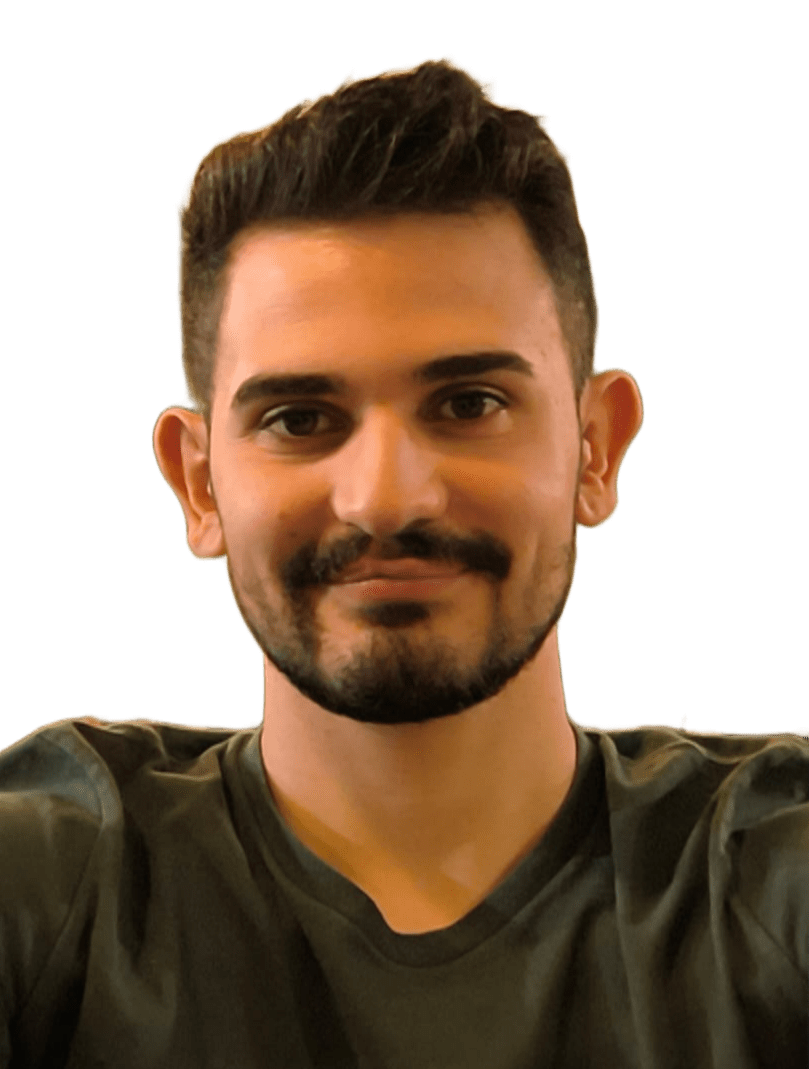
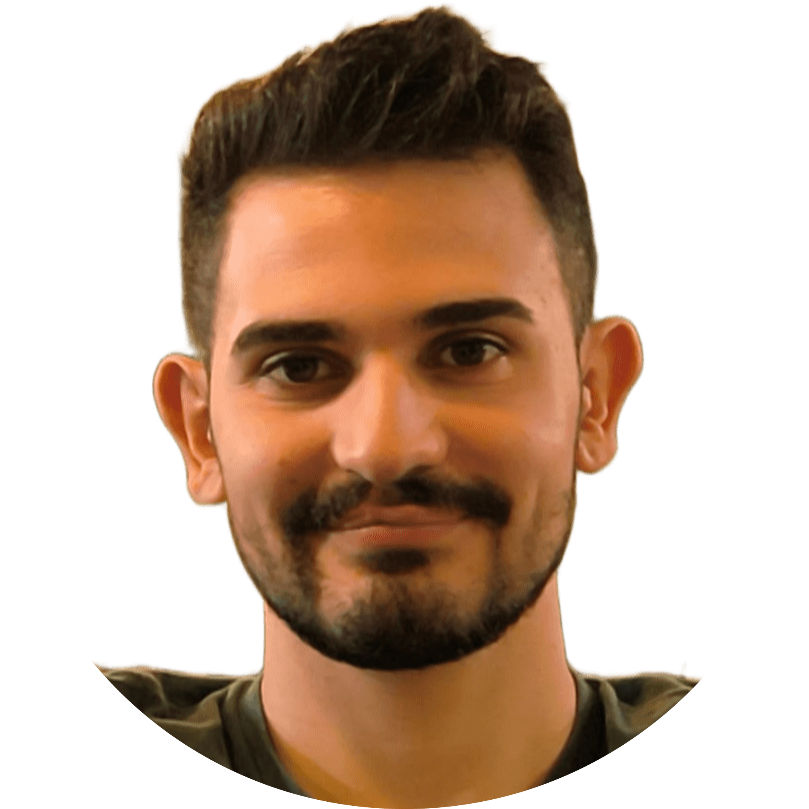
ajustando errores

diff --git a/version-2/app/page.tsx b/version-2/app/page.tsx
@@ -1,46 +1,18 @@
 "use client"
-import React, { useEffect, useState } from "react"
+
 import HeaderInicio from "./componentes/paginas/inicio/Header/HeaderInicio"
+import BodyInicio from "./componentes/paginas/inicio/body/bodyinicio"
+import NavegacionInicio from "./componentes/paginas/inicio/navegacion/navegacioninicio"
 import "./componentes/paginas/inicio/styles/grid.css"
 import "./componentes/paginas/inicio/styles/inicio.css"
 export default function PageInicio() {
-  const [isCompact, setIsCompact] = useState(false)
-  useEffect(() => {
-    const check = () => setIsCompact(window.innerWidth <= 1250 && window.innerHeight <= 800)
-    check()
-    window.addEventListener("resize", check)
-    return () => window.removeEventListener("resize", check)
-  }, [])
   return (
     <main className="parent">
       <div className="header">
         <HeaderInicio />
       </div>
-      <div className="nav-left box">Navegación izquierda</div>
-      {!isCompact && (
-        <div className="recomendaciones box">
-          <div className="div1">título</div>
-          <div className="div2">testimonio</div>
-          <div className="div3">reseña</div>
-        </div>
-      )}
-      <div className="personal box">
-        <div className="div1">Foto</div>
-        <div className="div2">Nombre</div>
-        <div className="div3">Palabras animadas</div>
-        <div className="div4">Ver trabajos</div>
-        <div className="div5">Contactarme</div>
-      </div>
-      {!isCompact && (
-        <div className="destacado box">
-          <div className="proyectoDestacado">
-            <div className="div1">título</div>
-            <div className="div2">tarjeta</div>
-            <div className="div3">reservado</div>
-          </div>
-        </div>
-      )}
-      <div className="nav-right box">Navegación derecha</div>
+      <NavegacionInicio />
+      <BodyInicio />
     </main>
   )
 }

diff --git a/version-2/app/componentes/botones/temas/ThemeToggle.tsx b/version-2/app/componentes/botones/temas/ThemeToggle.tsx
@@ -8,17 +8,14 @@ import styles from "../../paginas/inicio/Header/HeaderInicio.module.css"
 
 export default function ThemeToggle() {
   const [theme, setTheme] = useState<"light" | "dark" | "system">("system")
-  const [mounted, setMounted] = useState(false)
+  const [mountedTheme, setMountedTheme] = useState<"light" | "dark" | "system">("system")
 
   useEffect(() => {
-    setMounted(true)
     const savedTheme = (typeof window !== "undefined" ? localStorage.getItem("theme") : null) as "light" | "dark" | "system" | null
-    if (savedTheme) {
-      setTheme(savedTheme)
-      applyTheme(savedTheme)
-    } else {
-      applyTheme("system")
-    }
+    const initial = savedTheme || "system"
+    setTheme(initial)
+    setMountedTheme(initial)
+    applyTheme(initial)
   }, [])
 
   const applyTheme = (newTheme: "light" | "dark" | "system") => {
@@ -51,11 +48,9 @@ export default function ThemeToggle() {
     try { window.dispatchEvent(new Event("themeToggleTransition")) } catch {}
   }
 
-  if (!mounted) return null
-
   return (
     <button onClick={toggleTheme} className={styles.headerButton} aria-label="Cambiar tema">
-      {theme === "dark" ? (
+      {mountedTheme === "dark" || (typeof document !== "undefined" && document.documentElement.classList.contains("dark")) ? (
         <svg viewBox="0 0 24 24" fill="none" xmlns="http://www.w3.org/2000/svg"><path d="M6.76 4.84l-1.8-1.79L3.17 4.84l1.79 1.8 1.8-1.8zM1 13h3v-2H1v2zm10-9h-2v3h2V4zm7.03 1.05l-1.8-1.8-1.79 1.8 1.79 1.79 1.8-1.79zM20 11v2h3v-2h-3zm-9 9h2v-3h-2v3zm-7.03-1.05l1.8 1.79 1.79-1.79-1.79-1.8-1.8 1.8zM17.24 19.16l1.8 1.79 1.79-1.79-1.79-1.8-1.8 1.8zM12 7a5 5 0 100 10 5 5 0 000-10z" fill="currentColor"/></svg>
       ) : (
         <svg viewBox="0 0 24 24" fill="none" xmlns="http://www.w3.org/2000/svg"><path d="M12 2a9.99 9.99 0 018.66 13.99A9.99 9.99 0 1112 2z" fill="currentColor"/></svg>

diff --git a/version-2/app/componentes/paginas/inicio/styles/inicio.css b/version-2/app/componentes/paginas/inicio/styles/inicio.css
@@ -11,7 +11,15 @@
 .div3 { grid-area: 3 / 1 / 4 / 2; }
 .div4 { grid-area: 4 / 1 / 5 / 2; }
 .div5 { grid-area: 5 / 1 / 6 / 2; }
-.personal .div1, .personal .div2, .personal .div3, .personal .div4, .personal .div5 { display: flex; justify-content: center; align-items: center; border: 2px solid #93c5fd; width: 100%; height: 100%; }
+.personal .div2, .personal .div3, .personal .div4, .personal .div5 { display: flex; justify-content: center; align-items: center; border: 2px solid #93c5fd; width: 100%; height: 100%; }
+.personal .div2 { overflow: hidden; padding-inline: 0.75rem; }
+.personal .div1 img { width: 100%; height: 100%; object-fit: contain; object-position: center; display: block; max-width: 100%; max-height: 100%; border: none; }
+.personal .div1 { display: flex; justify-content: center; align-items: center; width: 100%; height: 100%; border: none; border-radius: 9999px; overflow: hidden; }
+.personal .div2 { container-type: inline-size; }
+.personal .div2 .nombre { font-weight: 400; font-size: clamp(0.95rem, 8cqw, 2.4rem); line-height: 1.15; display: inline-block; text-align: center; max-width: 100%; white-space: nowrap; overflow: hidden; text-overflow: ellipsis; padding-bottom: 0.05em; }
+@media (max-height: 500px) {
+  .personal .div2 .nombre { font-size: clamp(0.765rem, 7.65cqw, 1.9125rem); }
+}
 
 .proyectoDestacado { display: grid; height: 100%; grid-template-columns: 1fr; grid-template-rows: 10% 80% 10%; grid-column-gap: 0px; grid-row-gap: 0px; }
 .destacado { padding: 0; }

diff --git a/version-2/app/componentes/paginas/inicio/body/bodyinicio.tsx b/version-2/app/componentes/paginas/inicio/body/bodyinicio.tsx
@@ -1,0 +1,46 @@
+"use client"
+
+import React, { useEffect, useState } from "react"
+
+const BodyInicio = () => {
+  const [isCompact, setIsCompact] = useState(false)
+
+  useEffect(() => {
+    const check = () => setIsCompact(window.innerWidth <= 1250 && window.innerHeight <= 800)
+    check()
+    window.addEventListener("resize", check)
+    return () => window.removeEventListener("resize", check)
+  }, [])
+
+  // El tamaño del nombre se gestiona con CSS (container queries y clamp)
+
+  return (
+    <>
+      {!isCompact && (
+        <div className="recomendaciones box">
+          <div className="div1">título</div>
+          <div className="div2">testimonio</div>
+          <div className="div3">reseña</div>
+        </div>
+      )}
+      <div className="personal box">
+        <div className="div1"><img src="/Rodrigo.png" alt="Rodrigo" /></div>
+        <div className="div2"><span className="nombre">Rodrigo Pozo Sánchez</span></div>
+        <div className="div3">Palabras animadas</div>
+        <div className="div4">Ver trabajos</div>
+        <div className="div5">Contactarme</div>
+      </div>
+      {!isCompact && (
+        <div className="destacado box">
+          <div className="proyectoDestacado">
+            <div className="div1">título</div>
+            <div className="div2">tarjeta</div>
+            <div className="div3">reservado</div>
+          </div>
+        </div>
+      )}
+    </>
+  )
+}
+
+export default BodyInicio

diff --git a/version-2/app/globals.css b/version-2/app/globals.css
@@ -45,3 +45,28 @@ body {
 body.theme-transition {
   transition: background-color 200ms ease, color 200ms ease;
 }
+
+/* Tipografía utilitaria inspirada en TypeAnimationDemo */
+.text-primary { color: var(--foreground); }
+.heading-hero {
+  /* text-3xl md:text-5xl font-bold text-primary mb-2 */
+  font-weight: 700;
+  color: var(--foreground);
+}
+@media (min-width: 768px) {
+  .heading-hero { font-size: 3rem; }
+}
+@media (max-width: 767.98px) {
+  .heading-hero { font-size: 1.875rem; }
+}
+.heading-anim {
+  /* text-3xl md:text-5xl font-extrabold text-teal-600 */
+  font-weight: 800;
+  color: #0d9488; /* teal-600 */
+}
+@media (min-width: 768px) {
+  .heading-anim { font-size: 3rem; }
+}
+@media (max-width: 767.98px) {
+  .heading-anim { font-size: 1.875rem; }
+}

diff --git a/version-2/app/componentes/paginas/inicio/navegacion/navegacioninicio.tsx b/version-2/app/componentes/paginas/inicio/navegacion/navegacioninicio.tsx
@@ -1,0 +1,14 @@
+"use client"
+
+import React from "react"
+
+const NavegacionInicio = () => {
+  return (
+    <>
+      <div className="nav-left box">Navegación izquierda</div>
+      <div className="nav-right box">Navegación derecha</div>
+    </>
+  )
+}
+
+export default NavegacionInicio
